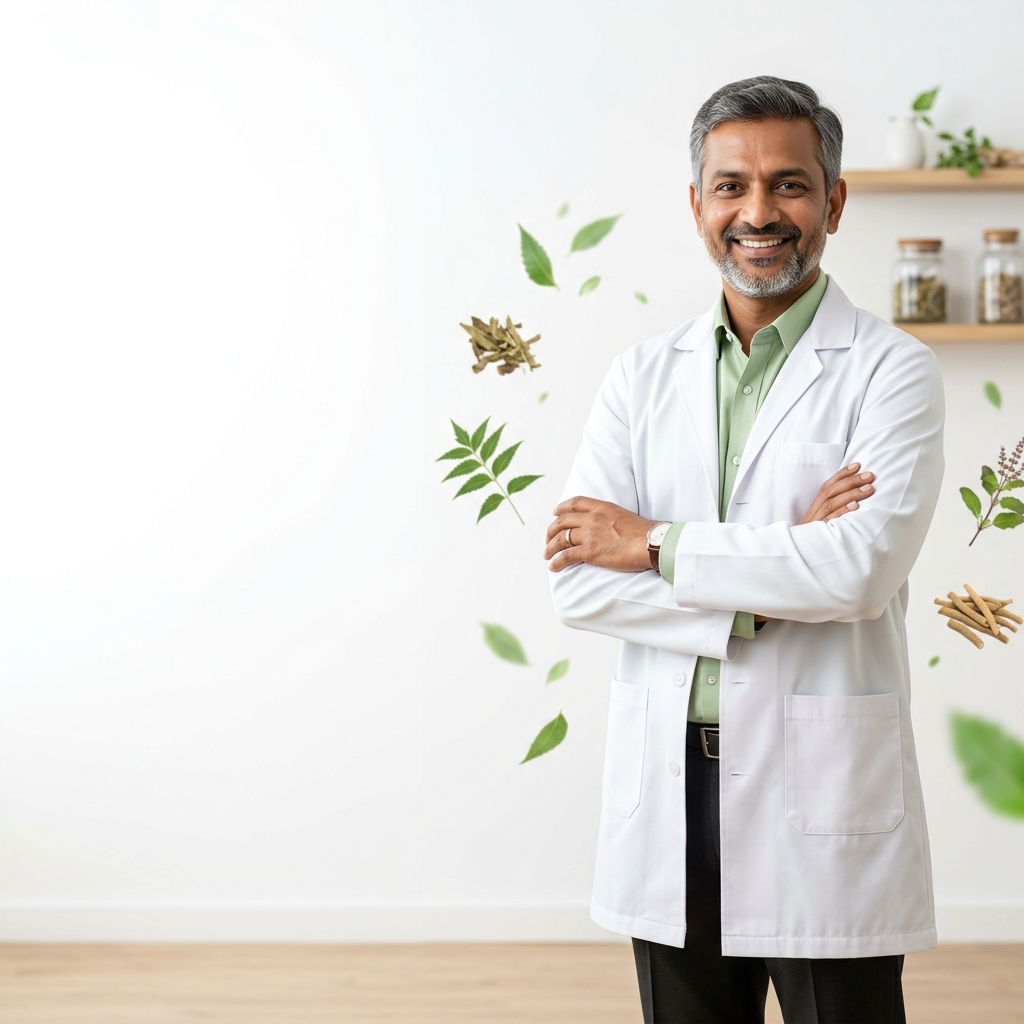
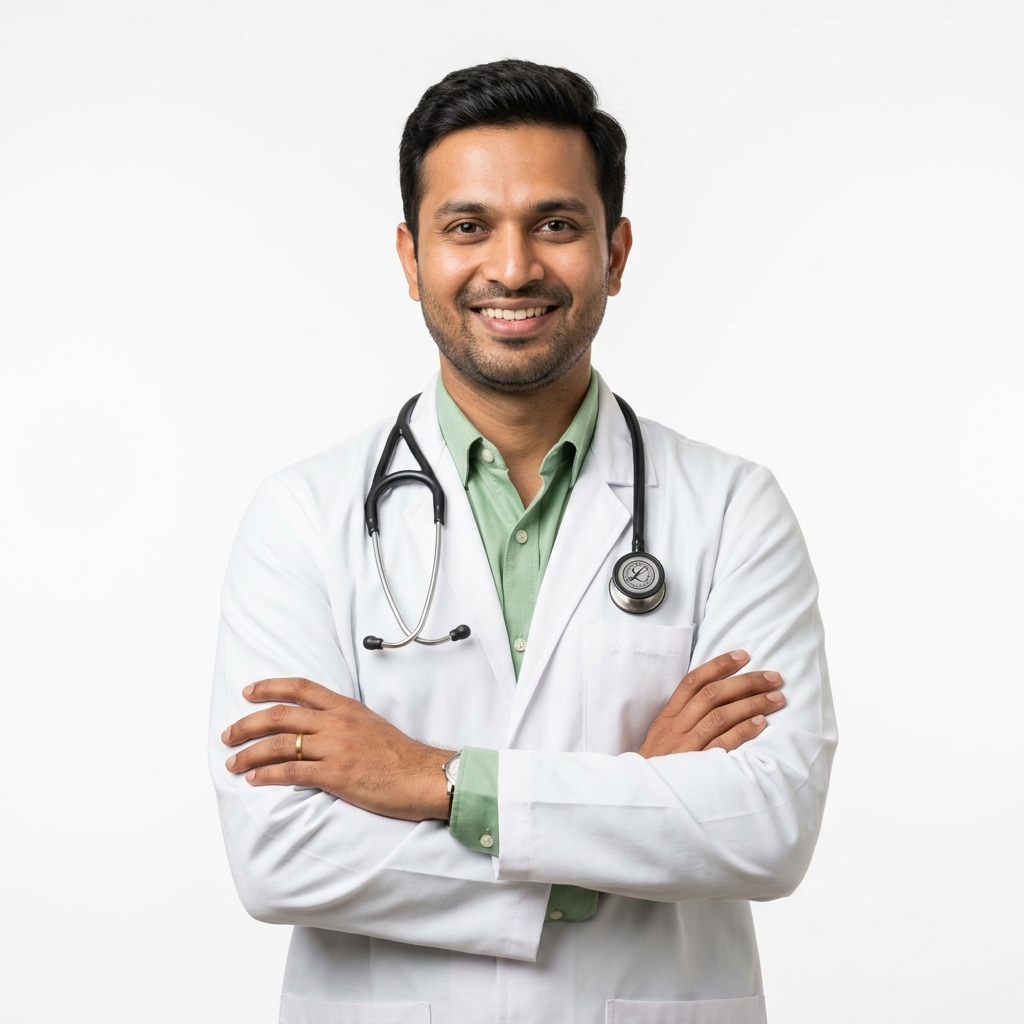
Updated design of hero section

diff --git a/src/sections/Hero.tsx b/src/sections/Hero.tsx
@@ -3,15 +3,15 @@
 import React, { useState } from "react";
 import Image from "next/image";
 import { Button } from "@/components/ui/Button";
-import { 
-  Leaf, 
-  ArrowRight, 
-  Bot, 
-  Check, 
-  Award, 
-  Activity, 
-  Users, 
-  User, 
+import {
+  Leaf,
+  ArrowRight,
+  Bot,
+  Check,
+  Award,
+  Activity,
+  Users,
+  User,
   Phone,
   Calendar
 } from "lucide-react";
@@ -20,14 +20,14 @@ import { motion, AnimatePresence } from "framer-motion";
 function BotanicalHeroDecor() {
   return (
     <div className="absolute inset-0 pointer-events-none overflow-hidden select-none z-0">
-      {/* Soft green watercolor textures & blurred circles */}
-      <div className="absolute top-[10%] left-[20%] w-[300px] h-[300px] rounded-full bg-[#0AB68B]/4 filter blur-[90px]" />
-      <div className="absolute bottom-[10%] right-[30%] w-[350px] h-[350px] rounded-full bg-[#92DE8B]/5 filter blur-[100px]" />
-      
+      {/* Soft blurred circles */}
+      <div className="absolute top-[10%] left-[20%] w-[300px] h-[300px] rounded-full bg-white/10 filter blur-[90px]" />
+      <div className="absolute bottom-[10%] right-[30%] w-[350px] h-[350px] rounded-full bg-white/20 filter blur-[100px]" />
+
       {/* Decorative leaf 1 */}
       <motion.svg
         viewBox="0 0 100 100"
-        className="w-40 h-40 absolute top-4 left-[5%] text-[#0AB68B] opacity-[0.04]"
+        className="w-40 h-40 absolute top-4 left-[5%] text-[#028174] opacity-[0.06]"
         animate={{ y: [0, 5, 0] }}
         transition={{ duration: 10, repeat: Infinity, ease: "easeInOut" }}
       >
@@ -38,7 +38,7 @@ function BotanicalHeroDecor() {
       {/* Decorative leaf 2 */}
       <motion.svg
         viewBox="0 0 100 100"
-        className="w-48 h-48 absolute bottom-8 left-[35%] text-[#92DE8B] opacity-[0.03]"
+        className="w-48 h-48 absolute bottom-8 left-[35%] text-[#028174] opacity-[0.04]"
         animate={{ y: [0, -6, 0] }}
         transition={{ duration: 12, repeat: Infinity, ease: "easeInOut" }}
       >
@@ -66,12 +66,7 @@ export function Hero() {
     { icon: Users, title: "Personalized Treatment Plans" },
   ];
 
-  const benefits = [
-    "Ayurveda & Homeopathy Experts",
-    "Root Cause Diagnosis",
-    "Online & In-Clinic Consultation",
-    "Authentic Medicines Across India",
-  ];
+
 
   const processSteps = [
     { num: "①", text: "Book Consultation" },
@@ -80,59 +75,58 @@ export function Hero() {
   ];
 
   return (
-    <section 
-      className="relative overflow-hidden w-full z-10 pt-8 pb-6 lg:h-[calc(100vh-130px)] lg:min-h-[580px] lg:max-h-[660px] flex items-center bg-white"
+    <section
+      className="relative overflow-hidden w-full z-10 pt-8 pb-6 lg:h-[calc(100vh-130px)] lg:min-h-[580px] lg:max-h-[660px] flex items-center"
       style={{
         background: `
-          radial-gradient(circle at top left, rgba(10,182,139,.08), transparent 35%),
-          radial-gradient(circle at bottom right, rgba(146,222,139,.08), transparent 40%),
-          linear-gradient(180deg, #FFFFFF 0%, #F9FDFB 100%)
+          linear-gradient(180deg, rgba(255, 255, 255, 0.25), rgba(255, 255, 255, 0.08)),
+          #92DE8B
         `,
       }}
     >
       <BotanicalHeroDecor />
 
       <div className="custom-container relative z-10 w-full h-full flex items-center">
-        <div className="grid grid-cols-1 lg:grid-cols-[40%_32%_28%] gap-10 items-start w-full">
-          
+        <div className="grid grid-cols-1 lg:grid-cols-[40%_30%_30%] gap-10 items-stretch w-full">
+
           {/* COLUMN 1: LEFT CONTENT (40% proportional width) */}
           <div className="flex flex-col text-left space-y-3">
             {/* Tag Badge */}
-            <div className="inline-flex self-start items-center gap-1.5 bg-[#FFF4E8] border border-[#FFE3B3] px-3 py-1 rounded-full shadow-sm">
+            <div className="inline-flex self-start items-center gap-1.5 bg-white border border-[#028174]/20 px-3 py-1 rounded-full shadow-sm">
               <Leaf className="w-3.5 h-3.5 text-[#028174] shrink-0" />
-              <span className="text-[10px] sm:text-xs font-bold text-[#028174] tracking-wide">
-                Integrated Ayurveda & Homeopathy Clinics
+              <span className="text-[10px] sm:text-xs font-bold text-[#1E293B] tracking-wide">
+                Integrated Ayurveda & Homeopathy Healthcare Platform
               </span>
             </div>
 
             {/* Headline */}
             <h1 className="font-heading text-3xl sm:text-4xl xl:text-[52px] font-extrabold text-[#1E293B] leading-[1.05] tracking-tight">
-              Heal Naturally with <br />
-              <span className="text-[#028174] underline decoration-[#92DE8B] decoration-wavy decoration-2">
+              Heal Naturally with{" "}
+              <span className="text-[#028174]">
                 Ayurveda & Homeopathy
               </span>
             </h1>
 
-            {/* Subheading */}
-            <p className="font-sans text-xs sm:text-[13px] text-[#64748B] leading-relaxed max-w-[500px]">
-              Root-cause treatment for chronic diseases through evidence-based Ayurveda & Homeopathy. Personalized treatments, certified doctors, authentic medicines and holistic wellness programs—all under one trusted healthcare platform.
+            {/* Subheadline (Description) */}
+            <p className="font-sans text-xs sm:text-[13px] text-[#1E293B]/80 leading-relaxed max-w-[500px]">
+              Root-cause treatment for chronic diseases through evidence-based Ayurveda & Homeopathy. Personalized treatment plans, certified doctors, authentic medicines, and holistic wellness programs.
             </p>
 
             {/* Action Buttons */}
             <div className="flex flex-wrap items-center gap-3 pt-1">
-              <Button 
-                variant="primary" 
-                size="md" 
-                className="rounded-full bg-[#028174] hover:bg-[#01695F] text-white flex items-center justify-center gap-2 group px-6 h-11 text-xs font-bold transition-all duration-300 shadow-sm"
+              <Button
+                variant="primary"
+                size="md"
+                className="rounded-full bg-[#028174] hover:bg-[#01695F] text-white flex items-center justify-center gap-2 group px-6 h-11 text-xs font-bold transition-all duration-300 shadow-md"
                 href="#appointment"
               >
                 Book Free Consultation
                 <ArrowRight className="w-3.5 h-3.5 transition-transform group-hover:translate-x-1" />
               </Button>
-              <Button 
-                variant="outline" 
-                size="md" 
-                className="rounded-full bg-white border-[#028174]/40 text-[#028174] hover:bg-[#028174] hover:text-white flex items-center justify-center gap-2 px-6 h-11 text-xs font-bold transition-all duration-300 border"
+              <Button
+                variant="outline"
+                size="md"
+                className="rounded-full bg-white/80 border-[#028174]/40 text-[#028174] hover:bg-[#028174] hover:text-white flex items-center justify-center gap-2 px-6 h-11 text-xs font-bold transition-all duration-300 border backdrop-blur-sm"
                 onClick={(e) => {
                   e.preventDefault();
                   const aiBtn = document.querySelector('[aria-label="Open AI Health Assistant"]') as HTMLButtonElement;
@@ -147,11 +141,11 @@ export function Hero() {
             {/* Trust Cards Grid (Compact 70px Height, 12px Gap, Rounded 18px) */}
             <div className="grid grid-cols-2 gap-3 max-w-[420px] pt-1">
               {trustCards.map((card, idx) => (
-                <div 
+                <div
                   key={idx}
-                  className="h-[70px] p-[14px] bg-white rounded-[18px] border border-[#E8F3EE] shadow-sm hover:shadow-md hover:-translate-y-0.5 transition-all duration-300 flex items-center gap-2.5 group"
+                  className="h-[70px] p-[14px] bg-white rounded-[18px] border border-[#E5E7EB] shadow-sm hover:shadow-md hover:-translate-y-0.5 transition-all duration-300 flex items-center gap-2.5 group"
                 >
-                  <div className="w-8 h-8 rounded-full bg-[#F5FCF8] flex items-center justify-center shrink-0 border border-[#E8F3EE] group-hover:bg-[#028174]/10 transition-colors">
+                  <div className="w-8 h-8 rounded-full bg-[#92DE8B]/10 flex items-center justify-center shrink-0 border border-[#E5E7EB] group-hover:bg-[#028174]/10 transition-colors">
                     <card.icon className="w-4 h-4 text-[#028174]" />
                   </div>
                   <span className="text-[11px] sm:text-xs font-bold text-[#1E293B] leading-tight">
@@ -161,49 +155,25 @@ export function Hero() {
               ))}
             </div>
 
-            {/* Benefits List (2 Columns, smaller icons) */}
-            <div className="grid grid-cols-2 gap-x-4 gap-y-1.5 max-w-[480px] pt-2">
-              {benefits.map((benefit, idx) => (
-                <div key={idx} className="flex items-center gap-1.5">
-                  <Check className="w-3.5 h-3.5 text-[#028174] stroke-[3.5] shrink-0" />
-                  <span className="text-xs sm:text-sm font-semibold text-[#1E293B]">
-                    {benefit}
-                  </span>
-                </div>
-              ))}
-            </div>
           </div>
 
-          {/* COLUMN 2: CENTER DOCTOR IMAGE (32% width) - Dominates Hero, Never Cropped */}
-          <div className="flex flex-col justify-end items-center relative h-[380px] lg:h-[580px] xl:h-[620px] w-full overflow-visible">
-            {/* Blurred Circle behind doctor */}
-            <div className="absolute top-[20%] w-[260px] h-[260px] rounded-full bg-[#0AB68B]/10 filter blur-3xl -z-10" />
-            
-            {/* Soft subtle radial gradient behind doctor image */}
-            <div className="absolute bottom-0 w-[85%] aspect-square bg-gradient-to-t from-[#92DE8B]/15 via-[#0AB68B]/5 to-transparent rounded-full filter blur-2xl -z-10" />
-
-            {/* Subtle floating plant leaf element */}
-            <div className="absolute top-5 right-5 text-[#028174] opacity-20 pointer-events-none">
-              <Leaf className="w-8 h-8 fill-current" />
-            </div>
-
-            {/* Main Doctor Image placed directly on background - using mix-blend-multiply to blend white photo background */}
-            <div className="relative w-full h-full flex items-end justify-center overflow-visible">
-              <Image 
-                src="/images/doctor-hero.png" 
-                alt="Ayurvedic Doctor Specialist" 
-                fill
-                priority
-                className="object-contain object-bottom drop-shadow-[0_15px_15px_rgba(2,129,116,0.12)] mix-blend-multiply"
-                sizes="(max-width: 768px) 100vw, 400px"
-              />
-            </div>
+          {/* COLUMN 2: CENTER DOCTOR IMAGE (30% width) - Dominates Hero & Takes Complete Height */}
+          <div className="relative h-[480px] lg:h-full min-h-[480px] lg:min-h-0 w-full rounded-2xl overflow-hidden border border-white/25 shadow-xl bg-white flex items-end justify-center z-10">
+            {/* Main Doctor Image filling the container */}
+            <Image
+              src="/images/doctor-hero.png"
+              alt="Ayurvedic Doctor Specialist"
+              fill
+              priority
+              className="object-cover object-right-bottom"
+              sizes="(max-width: 768px) 100vw, 400px"
+            />
           </div>
 
-          {/* COLUMN 3: RIGHT CONSULTATION CARD (28% width) - Aligned to doctor's shoulders */}
+          {/* COLUMN 3: RIGHT CONSULTATION CARD (30% width) - Aligned to doctor's shoulders */}
           <div className="flex items-start justify-center lg:justify-end w-full lg:mt-[70px] xl:mt-[90px]">
-            <div className="w-full max-w-[360px] h-[420px] bg-white rounded-2xl border border-[#E8F3EE] p-6 shadow-2xl relative flex flex-col justify-between">
-              
+            <div className="w-full max-w-[360px] h-[420px] bg-white rounded-2xl border border-[#E5E7EB] p-6 shadow-2xl relative flex flex-col justify-between">
+
               <div>
                 <div className="absolute top-0 right-0 -mt-2 -mr-2 bg-[#028174] text-white p-2 rounded-full shadow-md z-20">
                   <Calendar className="w-4 h-4" />
@@ -244,16 +214,16 @@ export function Hero() {
                         />
                       </div>
 
-                      <Button 
-                        type="submit" 
-                        variant="primary" 
+                      <Button
+                        type="submit"
+                        variant="primary"
                         className="w-full h-[48px] justify-center rounded-xl bg-[#028174] hover:bg-[#01695F] text-white font-extrabold text-xs shadow-md transition-all duration-300"
                       >
                         Book Free Consultation
                       </Button>
                     </form>
                   ) : (
-                    <motion.div 
+                    <motion.div
                       key="success"
                       className="py-6 text-center space-y-2 mt-2"
                       initial={{ opacity: 0, scale: 0.95 }}
